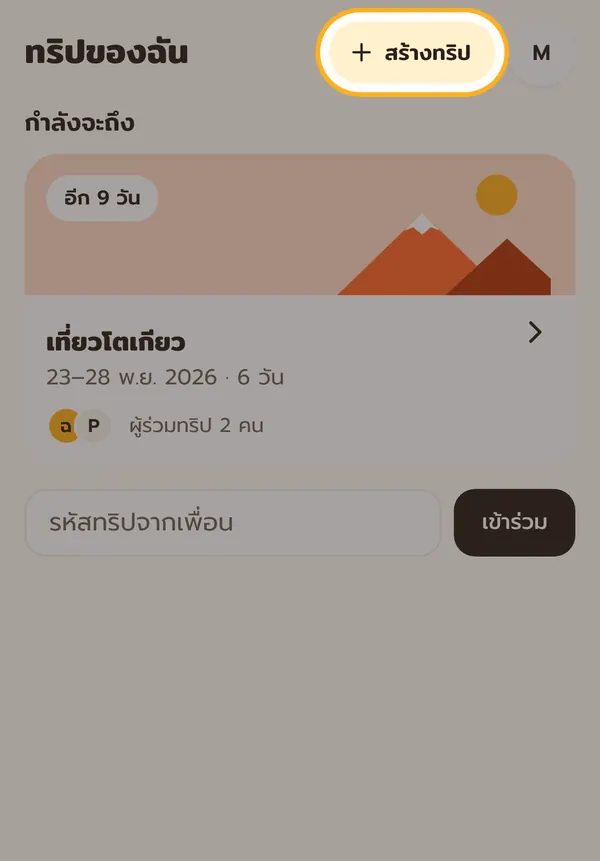
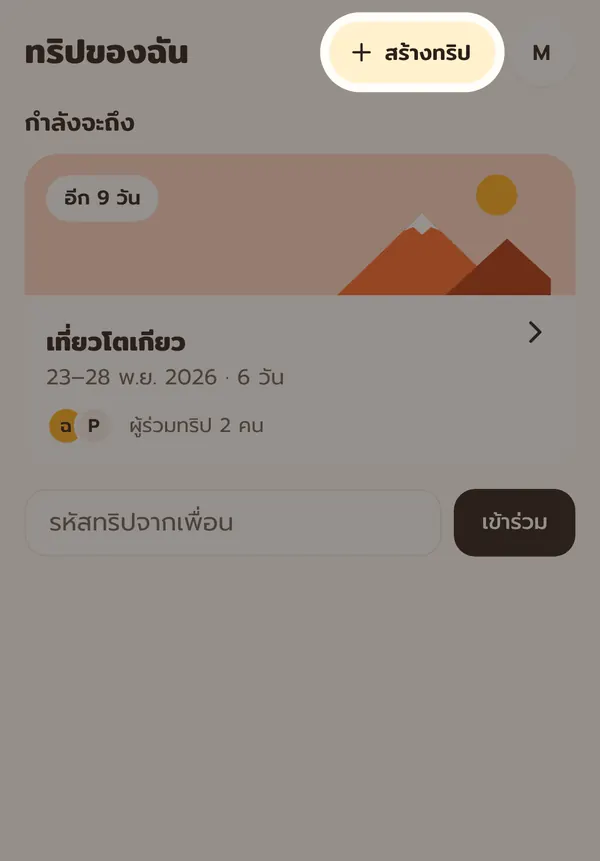
How-to guide: swipe works on iPhone, steady back/next buttons, centered card, spotlight without ring
- The page-lock touch handler no longer blocks sideways swipes on the pictures.
- Back and Next are two fixed halves (Back is dimmed on the first card) so Next never stretches over Back;
  Next goes to the card after the one in view, so taps during a slide do not land between cards.
- Card is centered with space above and below; pictures use a soft spotlight only.

Claude-Session: https://claude.ai/code/session_015BRmtB3ykkZmhpqNqRbF5g

diff --git a/index.html b/index.html
@@ -205,16 +205,16 @@ html.kb .dock.open .seg{display:none}
 html.kb .dock{bottom:calc(6px + var(--kb,0px))}
 .dock .seg{background:transparent;padding:0}
 .dock-body{overflow-y:auto;overscroll-behavior:contain;min-height:0}
-.guide-scrim{align-items:center;padding:16px}
+.guide-scrim{align-items:center;justify-content:center;padding:calc(env(safe-area-inset-top,0px) + 20px) 18px calc(env(safe-area-inset-bottom,0px) + 20px);box-sizing:border-box}
 .guide-card{width:100%;max-width:380px;max-height:calc(100% - 24px);background:var(--surface);border-radius:28px;box-shadow:0 18px 50px rgba(20,19,26,.28);display:flex;flex-direction:column;gap:12px;padding:14px 0 18px;overflow:hidden;animation:guideIn .22s ease-out}
 @keyframes guideIn{from{opacity:0;transform:translateY(10px) scale(.98)}to{opacity:1;transform:none}}
 .guide-top{display:flex;align-items:center;justify-content:space-between;min-height:30px;padding:0 18px}.guide-n{font-size:12.5px;color:var(--muted)}
 .guide-track{display:flex;overflow-x:auto;scroll-snap-type:x mandatory;-webkit-overflow-scrolling:touch;scrollbar-width:none;overscroll-behavior-x:contain;min-height:0}.guide-track::-webkit-scrollbar{display:none}
 .guide-slide{flex:0 0 100%;scroll-snap-align:center;scroll-snap-stop:always;display:flex;flex-direction:column;align-items:center;text-align:center;gap:6px;padding:0 18px;box-sizing:border-box}
-.guide-slide img{width:100%;max-height:min(46vh,380px);aspect-ratio:390/560;object-fit:contain;border-radius:18px;background:var(--tile);box-shadow:inset 0 0 0 1px var(--line)}
+.guide-slide img{width:100%;max-height:min(42vh,360px);aspect-ratio:390/560;object-fit:contain;border-radius:18px;background:var(--tile);box-shadow:inset 0 0 0 1px var(--line)}
 .guide-slide h2{margin:8px 0 0;font-family:var(--display);font-size:19px;font-weight:500}.guide-slide p{margin:0;color:var(--muted);font-size:13.5px;line-height:1.55}
 .guide-dots{display:flex;justify-content:center;gap:5px}.guide-dots i{width:6px;height:6px;border-radius:99px;background:var(--line);transition:width .2s,background .2s}.guide-dots i.on{width:18px;background:var(--accent)}
-.guide-btns{display:flex;gap:10px;padding:0 18px}.guide-btns .btn{flex:1;min-height:46px}.guide-btns .btn[hidden]{display:none}
+.guide-btns{display:grid;grid-template-columns:1fr 1fr;gap:10px;padding:0 18px}.guide-btns .btn{width:100%;min-width:0;min-height:46px;margin:0}.guide-btns .btn:disabled{opacity:.35}
 .ptr{position:fixed;left:50%;top:env(safe-area-inset-top,0px);margin-left:-11px;width:22px;height:22px;color:var(--muted);opacity:0;pointer-events:none;z-index:0}
 .ptr svg{display:block;transform:rotate(-90deg)}.ptr.ready{color:var(--accent-ink,#8A5300)}.ptr.spin svg{animation:ptrspin .8s linear infinite}@keyframes ptrspin{from{transform:rotate(-90deg)}to{transform:rotate(270deg)}}
 /* dims from the bottom and fades to clear before the top: iPhone tints the status bar from the page a beat late, so a dark top made it flash */
@@ -2367,10 +2367,10 @@ function vGuide(s){
   return `<div class="scrim guide-scrim" data-act="guide-done"><div class="guide-card" role="dialog" aria-modal="true" aria-label="วิธีใช้ My Trip" data-stop="1">
     <div class="guide-top"><span class="guide-n">1/${n}</span><button class="link-btn" data-act="guide-done">ข้าม</button></div>
     <div class="guide-track" data-guide-track>${GUIDE.map((g, i) => `<section class="guide-slide" aria-label="${i + 1} จาก ${n}">
-      <img src="guide/${i + 1}.webp?v=1" alt="" width="300" height="280" ${i > 1 ? 'loading="lazy"' : ''} decoding="async">
+      <img src="guide/${i + 1}.webp?v=2" alt="" width="300" height="280" ${i > 1 ? 'loading="lazy"' : ''} decoding="async">
       <h2>${g.t}</h2><p>${g.d}</p></section>`).join("")}</div>
     <div class="guide-dots" aria-hidden="true">${GUIDE.map((_, i) => `<i class="${i ? "" : "on"}"></i>`).join("")}</div>
-    <div class="guide-btns"><button class="btn ghost" data-act="guide-step" data-d="-1" hidden>ย้อนกลับ</button><button class="btn primary" data-act="guide-step" data-d="1">ถัดไป</button></div>
+    <div class="guide-btns"><button type="button" class="btn ghost" data-act="guide-step" data-d="-1" disabled>ย้อนกลับ</button><button type="button" class="btn primary" data-act="guide-step" data-d="1">ถัดไป</button></div>
   </div></div>`;
 }
 /* the cards scroll natively (smooth, with momentum); dots and buttons follow the card in view */
@@ -2381,10 +2381,11 @@ function guideSync(track){
   card.querySelectorAll(".guide-dots i").forEach((d, n) => d.classList.toggle("on", n === i));
   card.querySelector(".guide-n").textContent = (i + 1) + "/" + GUIDE.length;
   const [back, next] = card.querySelectorAll(".guide-btns .btn");
-  back.hidden = i === 0; next.textContent = last ? "เริ่มใช้งาน" : "ถัดไป"; next.dataset.act = last ? "guide-done" : "guide-step";
+  back.disabled = i === 0; next.textContent = last ? "เริ่มใช้งาน" : "ถัดไป"; next.dataset.act = last ? "guide-done" : "guide-step";
   card.querySelector(".guide-top .link-btn").style.visibility = last ? "hidden" : "";
 }
 document.addEventListener("scroll", e => { const t = e.target; if(t?.matches?.("[data-guide-track]")) guideSync(t); }, true);
+document.addEventListener("scrollend", e => { const t = e.target; if(t?.matches?.("[data-guide-track]")) guideSync(t); }, true);
 function guideMaybe(){
   let seen = true; try { seen = !!localStorage.getItem("mytrip-guide-seen"); } catch(_){}
   if(!seen && S.view === "home" && !S.sheet && S.token){ S.sheet = {kind:"guide", step:0}; render(); }
@@ -3590,6 +3591,7 @@ document.addEventListener('touchstart',e=>{overlayTouchY=e.touches[0]?.clientY||
 function overlayTouchMove(e){
   if(!document.documentElement.classList.contains("lock"))return;
   if(e.target.closest?.(".doc-body"))return;   // the ticket viewer scrolls (and zooms) on its own
+  if(e.target.closest?.("[data-guide-track]"))return;   // the how-to pictures swipe sideways
   const compose=e.target.closest?.('.idea-compose-sheet');
   if(compose){
     const y=e.touches?.[0]?.clientY??overlayTouchY,dy=y-overlayTouchY;overlayTouchY=y;
@@ -4162,7 +4164,7 @@ document.addEventListener("click", async e => {
     case "clear-scope": S.sheet.scope = el.dataset.k; render(); break;
     case "clear-run": clearPlan();break;
     case "guide-open": S.sheet = {kind:"guide", step:0}; render(); break;
-    case "guide-step": { const tr = document.querySelector("[data-guide-track]"); if(tr) tr.scrollBy({left: tr.clientWidth * Number(el.dataset.d || 1), behavior: "smooth"}); break; }
+    case "guide-step": { const tr = document.querySelector("[data-guide-track]"); if(!tr) break; const w = tr.clientWidth || 1, i = Math.max(0, Math.min(GUIDE.length - 1, Math.round(tr.scrollLeft / w) + Number(el.dataset.d || 1))); tr.scrollTo({left: i * w, behavior: "smooth"}); break; }
     case "guide-done": try { localStorage.setItem("mytrip-guide-seen", "1"); } catch(_){} if(S.sheet?.kind === "guide"){ S.sheet = null; render(); } break;
     case "copy-share": {
       const s = S.sheet = {kind:"copy-share", key:"", err:""}; render();
@@ -4329,7 +4331,7 @@ async function logout(){
 
 /* ---------- boot ---------- */
 /* phones keep an old copy of the page; reload once when a newer one is online */
-const BUILD = "2026-11-14-ptr2";
+const BUILD = "2026-11-14-guide4";
 async function checkUpdate(){
   if(location.protocol !== "https:") return;
   try {
